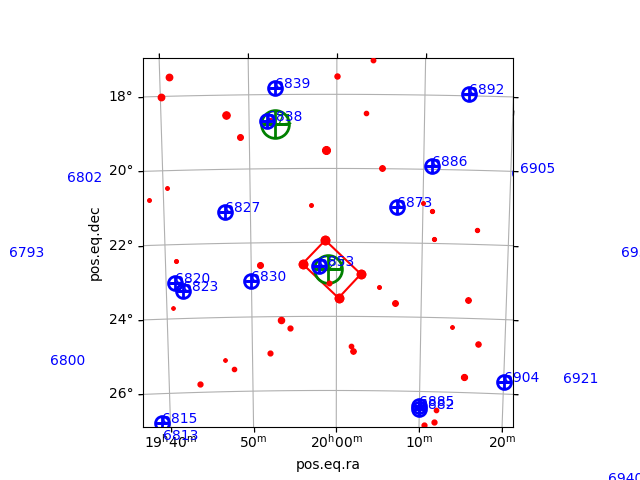
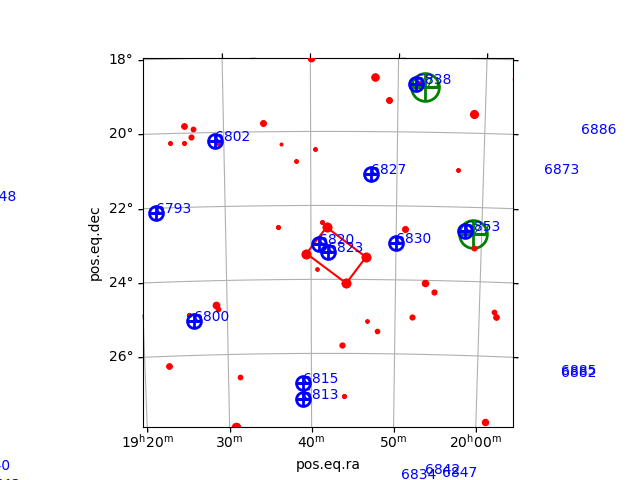
Adding argument to main.py, and auto detection of image size

diff --git a/lib/PlateSolve.py b/lib/PlateSolve.py
@@ -11,17 +11,16 @@ import ligo
 from matplotlib import pyplot as plt
 from ligo.skymap.plot.marker import reticle
 import lib.Catalogue_Util as util
+import PIL
 
 class PlateSolve:
-    def __init__(self, focale = 1000, photosyte = 4.8, percent = 20, width_capteur = 4928, height_capteur = 3264, fov = 5, star_size = 9, downscale = 2):
+    def __init__(self, focale = 1000, photosyte = 4.8, percent = 20, fov = 5, star_size = 9, downscale = 2):
         self.FOCALE = focale
         self.PHOTOSITE = photosyte
         self.angular_resolution = (206.265 * self.PHOTOSITE) / self.FOCALE
         self.low_scale_res = self.angular_resolution - ((self.angular_resolution / 100) * percent)
         self.high_scale_res = self.angular_resolution + ((self.angular_resolution / 100) * percent)
-        self.width_capteur = width_capteur
-        self.height_capteur = height_capteur
-        self.FOV_telescope_deg = self.width_capteur*self.angular_resolution / 3600
+
         self.FOV_IMAGE = fov #5 degree de champs
         self.STAR_SIZE = star_size # changer pour augmenter ou diminuer la taille des etoile
         self.DOWNSCALE = downscale
@@ -33,6 +32,12 @@ class PlateSolve:
             newFileName = image_path.split(".")[0]+".png"
             os.system("dcraw -c -w "+image_path +" | pnmtopng -compression 9 > "+newFileName)
             image_path = newFileName
+
+        image = PIL.Image.open(image_path)
+
+        self.width_capteur = image.size[0]
+        self.height_capteur = image.size[1]
+        self.FOV_telescope_deg = self.width_capteur*self.angular_resolution / 3600
 
 
         print("plate solve of : " + image_path)

diff --git a/main.py b/main.py
@@ -13,6 +13,10 @@ if __name__ == "__main__":
     parser.add_argument('--image', type=str, required=True)
     parser.add_argument('--focale', type=int, required=True)
     parser.add_argument('--photosite', type=float, required=True)
+    parser.add_argument('--percent', nargs='?', const=20, type=int, default=20)
+    parser.add_argument('--fov', nargs='?', const=5, type=int, default=5)
+    parser.add_argument('--star-size', nargs='?', const=9, type=int, default=9)
+    parser.add_argument('--downscale', nargs='?', const=2, type=int, default=2)
     args = parser.parse_args()
     toSolve = PlateSolve.PlateSolve(focale=args.focale, photosyte=args.photosite)
     toSolve.solve(args.image)
